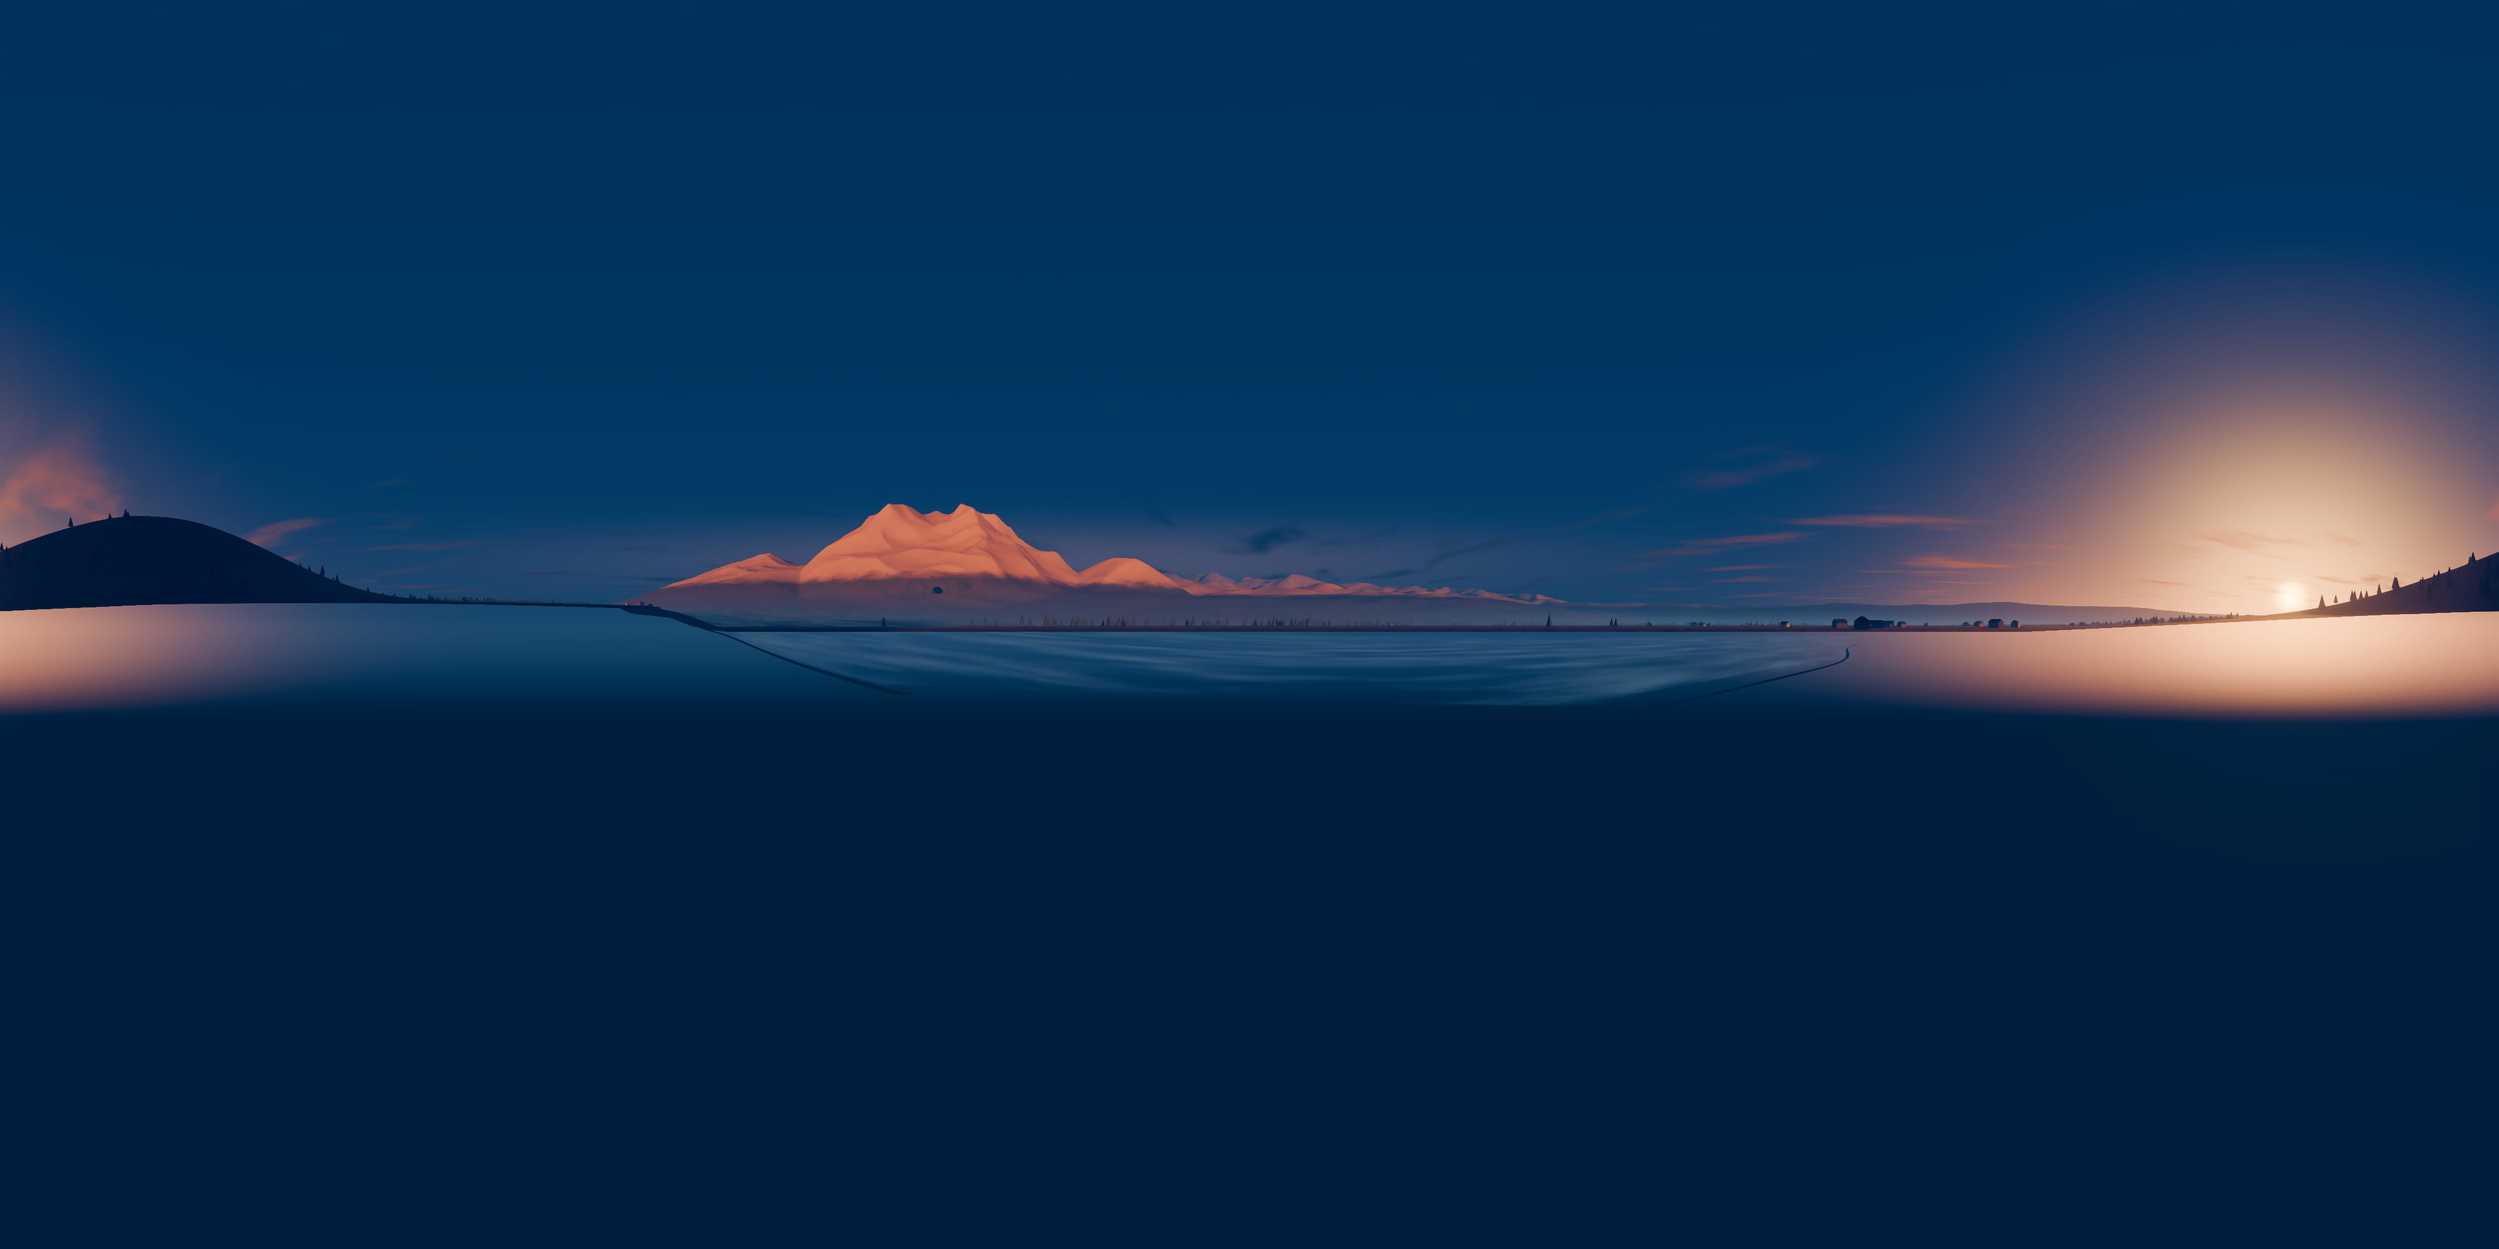
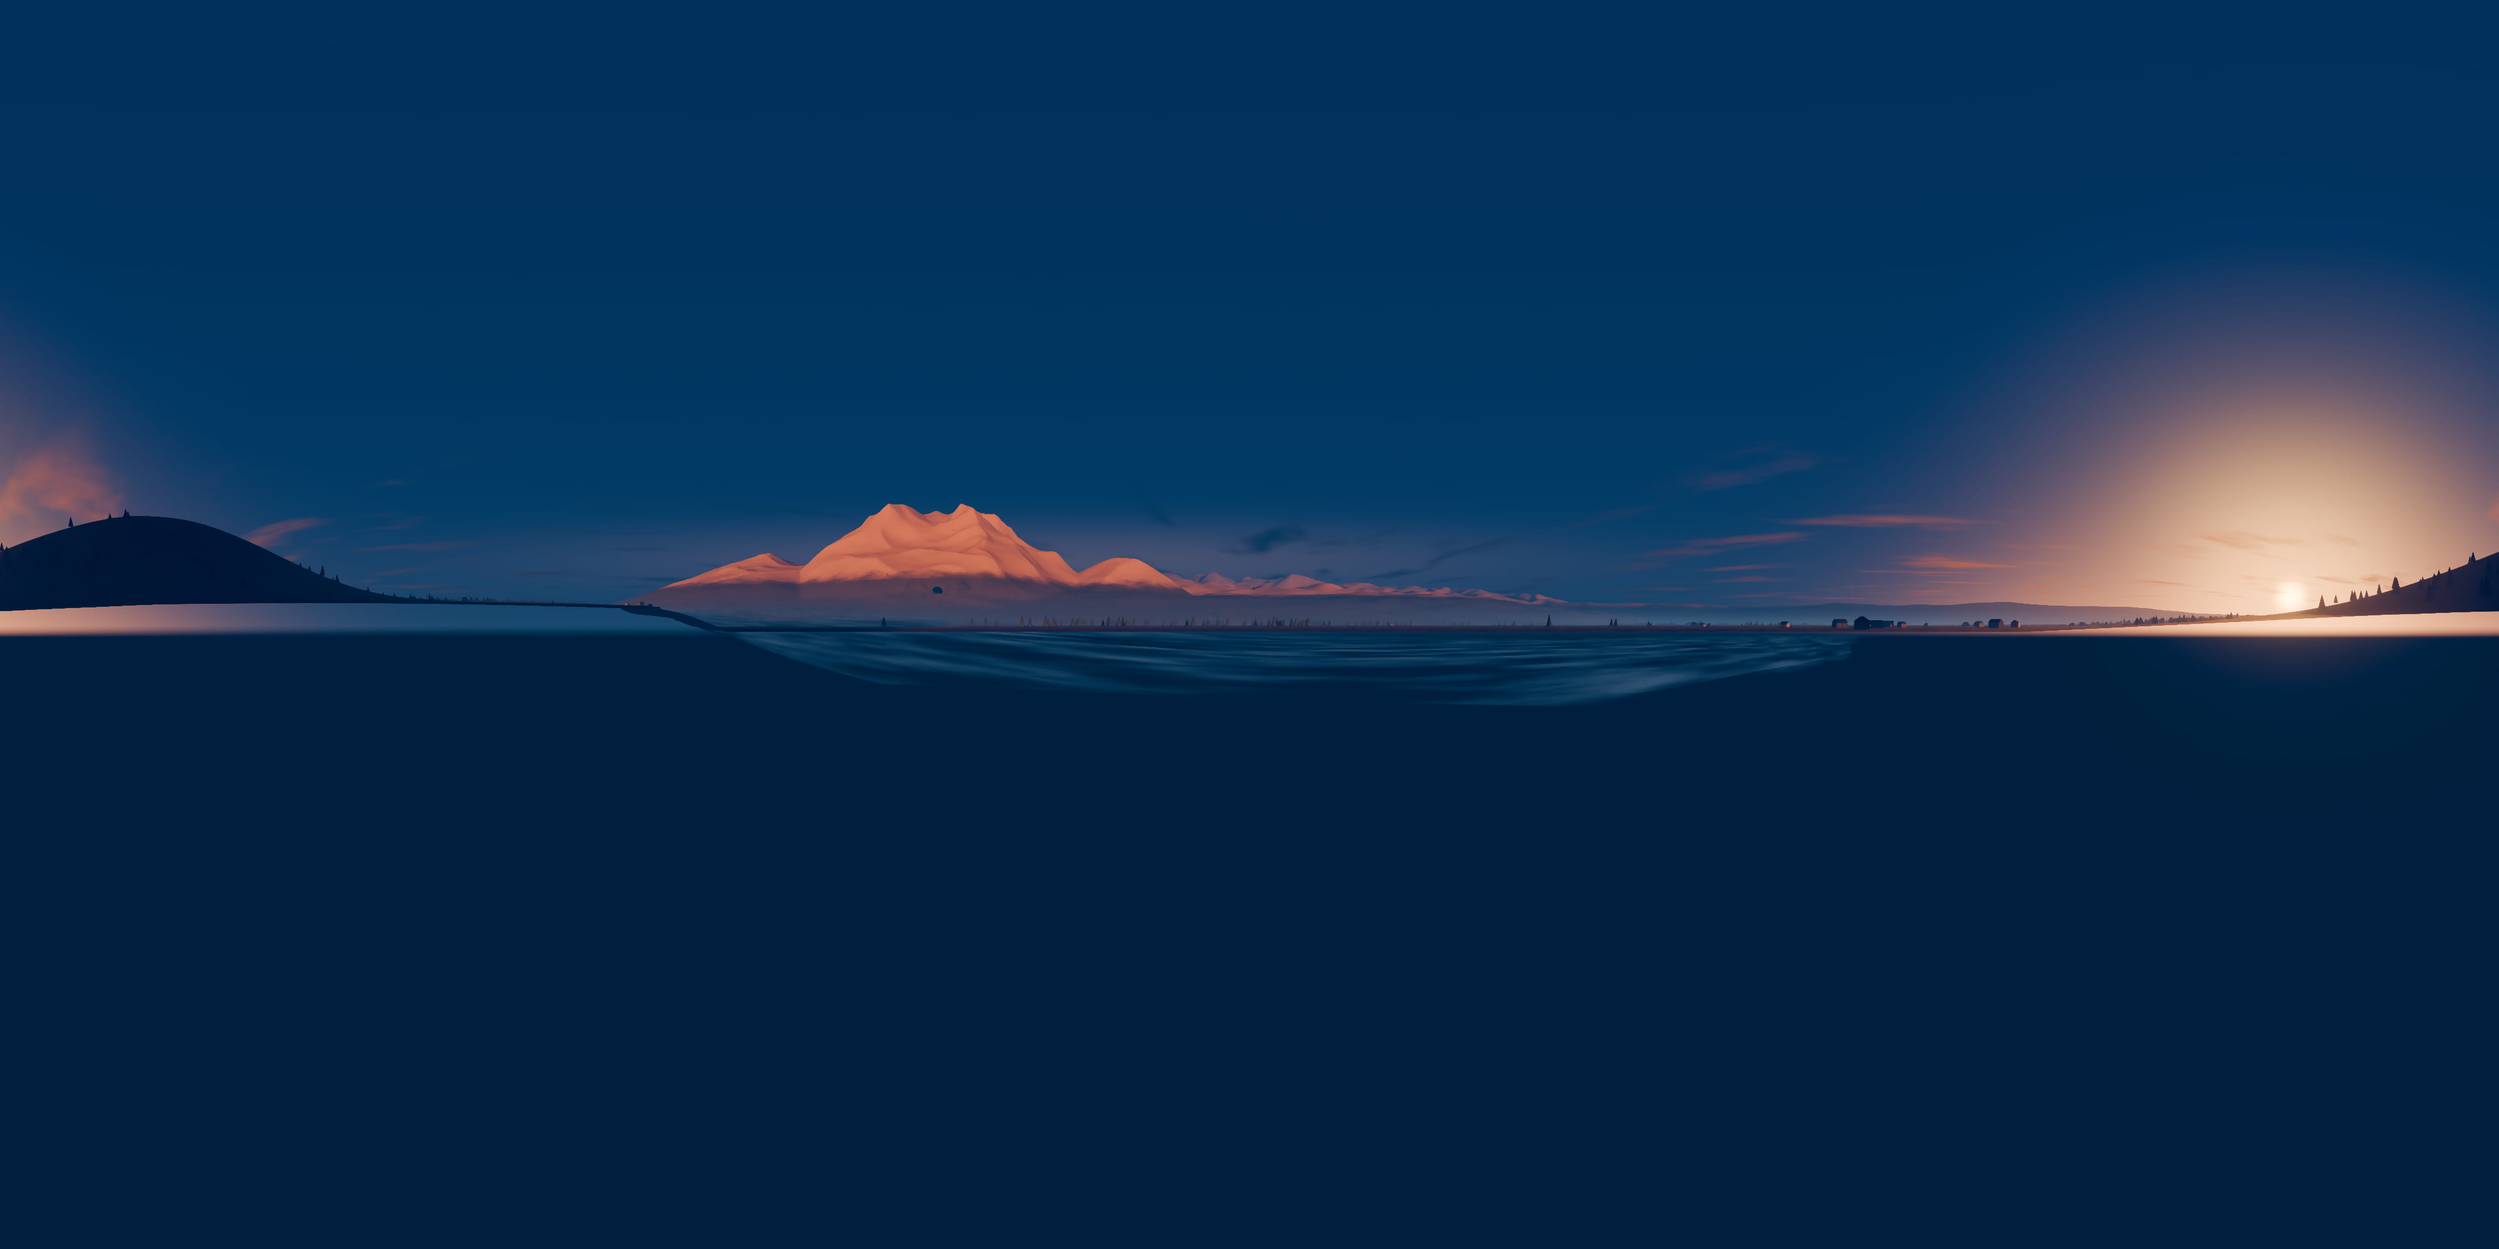
Handoff at 90% usage: Blender art, UE5 prep, Khaled, log

Changed region(s): [[0.0, 0.5, 1.0, 0.5938]]

diff --git a/tests/village.test.ts b/tests/village.test.ts
@@ -2,7 +2,7 @@ import { describe, it, expect } from 'vitest';
 import { newPlayer, step, eyeHeight, height, overlaps, TUNING, type Input, type PlayerState, type Box } from '../src/physics';
 import {
   villageSolids, EXAMINABLES, LINES, SPAWN, SPAWN_YAW, END_ZONE, TURNBACK_ZONE, MOUNTAIN, trailPoints, bearingDir,
-  pickExaminable, surfaceAt, zoneEvents, newVillageState, markExamined, rng, SUN,
+  pickExaminable, surfaceAt, zoneEvents, newVillageState, markExamined, rng, SUN, groundY,
 } from '../src/village';
 /** Main route on foot: farm track, back door, aisle, north door, then the hoofprints across the pasture to the gap. */
 const ROUTE = [[0, 12], [0, -9], [0, -13], [1.5, -15], [25, -38.6], [25.2, -40.5]];
@@ -51,7 +51,7 @@ describe('Village slice data', () => {
   it('every examinable can be examined from its standing spot (in range, facing it, line of sight)', () => {
     for (const [i, e] of EXAMINABLES.entries()) {
       const p = newPlayer(e.from);
-      for (let k = 0; k < 30; k++) step(p, idle, WORLD, DT);
+      for (let k = 0; k < 30; k++) step(p, idle, WORLD, DT, groundY);
       expect(p.onGround, e.id).toBe(true);
       expect(Math.hypot(p.pos.x - e.from.x, p.pos.z - e.from.z), `${e.id} spot is free`).toBeLessThan(0.01);
       const eye = { x: p.pos.x, y: p.pos.y + eyeHeight(p), z: p.pos.z };
@@ -69,7 +69,7 @@ describe('Village slice data', () => {
     expect(pickExaminable(eye, { x: d.x / n, y: d.y / n, z: d.z / n }, EXAMINABLES, SOLIDS, 10)).toBe(-1);
   });
 
-  it('spawn, every examine spot and the end zone are connected on foot (grid flood fill, player-sized)', () => {
+  it('spawn, every examine spot and the end zone are connected on foot in the barn corner (grid flood fill, player-sized)', () => {
     const h = 0.25, x0 = -28, z0 = -44, nx = Math.round(58 / h), nz = Math.round(72 / h);
     const cell = (x: number, z: number) => [Math.round((x - x0) / h), Math.round((z - z0) / h)] as const;
     const seen = new Uint8Array(nx * nz);
@@ -89,11 +89,7 @@ describe('Village slice data', () => {
     const reach = (x: number, z: number) => { const [a, b] = cell(x, z); return seen[a + b * nx] === 1; };
     for (const e of EXAMINABLES) expect(reach(e.from.x, e.from.z), e.id).toBe(true);
     expect(reach((END_ZONE.box.min.x + END_ZONE.box.max.x) / 2, END_ZONE.box.max.z - 0.5)).toBe(true);
-    // The play space is closed: nothing outside the fences/walls is reachable.
-    expect(reach(-27.9 - 0.3, 0)).toBe(false);
-    expect(reach(10, -46)).toBe(false);
-    expect(reach(25, -46)).toBe(false);
-    expect(reach(0, 28.5)).toBe(false);
+    // Closure of the full village (map edges, the stream) is checked in tests/villageWalk.test.ts.
   });
 
   it('hoofprint trail is continuous, starts in the barn, never crosses a solid, reaches the end zone, always heads toward the mountain', () => {
@@ -126,7 +122,7 @@ describe('Village slice data', () => {
       const [tx, tz] = route[wp];
       if (Math.hypot(tx - p.pos.x, tz - p.pos.z) < 0.4 && wp < route.length - 1) wp++;
       yaw = Math.atan2(-(route[wp][0] - p.pos.x), -(route[wp][1] - p.pos.z));
-      step(p, { ...idle, forward: 1, yaw }, WORLD, DT);
+      step(p, { ...idle, forward: 1, yaw }, WORLD, DT, groundY);
       if (zoneEvents(s, pbox(p)).includes('end')) ended = true;
     }
     expect(ended, `stuck at (${p.pos.x.toFixed(2)}, ${p.pos.z.toFixed(2)}) heading to waypoint ${wp}`).toBe(true);
@@ -157,16 +153,16 @@ describe('Village slice data', () => {
     expect(SUN.elevation).toBeLessThanOrEqual(6);
   });
 
-  it('walking back to the village fires turnback and an invisible stop holds the player', () => {
-    const p = newPlayer({ x: 0, y: 0.01, z: 23.5 });
+  it('walking down the valley road fires turnback and an invisible stop holds the player at the map edge', () => {
+    const p = newPlayer({ x: 37.5, y: groundY(37.5, 96) + 0.01, z: 96 });
     const s = newVillageState();
     let turned = 0;
-    for (let i = 0; i < 120 * 6; i++) {
-      step(p, { ...idle, forward: 1, yaw: Math.PI }, WORLD, DT);
+    for (let i = 0; i < 120 * 8; i++) {
+      step(p, { ...idle, forward: 1, yaw: Math.PI }, WORLD, DT, groundY);
       if (zoneEvents(s, pbox(p)).includes('turnback')) turned++;
     }
     expect(turned).toBeGreaterThan(0);
-    expect(p.pos.z).toBeLessThan(TURNBACK_ZONE.box.max.z + 0.5);
+    expect(p.pos.z).toBeLessThan(TURNBACK_ZONE.box.max.z + 0.7);
     expect(s.finished).toBe(false);
   });
 

diff --git a/src/villageScene.ts b/src/villageScene.ts
@@ -1273,7 +1273,6 @@ export function buildVillage(scene: THREE.Scene, renderer: THREE.WebGLRenderer):
   for (const k of Object.keys(buckets) as BucketId[]) buckets[k].length = 0;
   exGeos.clear();
   FENCES_NOW = fencesNow();
-  const pm = new THREE.PMREMGenerator(renderer);   // created first: its shader links while the CPU builds geometry
   R = rng(5);
   const maxAniso = Math.min(8, renderer.capabilities.getMaxAnisotropy());
   const phase: Record<string, number> = {};
@@ -1349,12 +1348,13 @@ export function buildVillage(scene: THREE.Scene, renderer: THREE.WebGLRenderer):
   disc.renderOrder = 1;
   sky.add(disc);
   mark('materials');
+  const pm = new THREE.PMREMGenerator(renderer);
   const envScene = new THREE.Scene();
   envScene.add(new THREE.Mesh(skyGeo, skyMat));
   const env = pm.fromScene(envScene, 0.04, 1, 2000).texture;
   for (const [m, k] of [[lit, 2.4], [stone, 2.4], [foliage, 2.0], [chalk, 2.0], [wet, 1.0], [prints, 0.3]] as const) { m.envMap = env; m.envMapIntensity = k; }
   const wm = waterMat as THREE.MeshStandardMaterial | null;
-  if (wm) { wm.envMap = env; wm.envMapIntensity = 1.3; }
+  if (wm) { wm.envMap = env; wm.envMapIntensity = 2.6; }
   pm.dispose();
   mark('envmap');
   const stats: Record<string, number> = { ...phase };
@@ -1412,7 +1412,8 @@ export function buildVillage(scene: THREE.Scene, renderer: THREE.WebGLRenderer):
   // Mountains: near valley sides, then the mountain itself (NNE) with the cave mouth, and the ridge mast to the west.
   // Near valley sides stay below 3 deg in the WSW so the sun clears them; the west ridge carries the mast.
   // The west ridge peaks due west (the mast, village.md: 450 m W, 110 m up) and dips in the WSW where the sun sets.
-  const nearH = (b: number) => 4 + 5 * ringNoise(b, 3, 3.1) + 2 * ringNoise(b, 17, 7.7) + 52 * Math.exp(-((angDiff(b, 276) / 15) ** 2))
+  const nearH = (b: number) => 4 + 5 * ringNoise(b, 3, 3.1) + 2 * ringNoise(b, 17, 7.7) + 50 * Math.exp(-((angDiff(b, 276) / 14) ** 2))
+    + 18 * Math.exp(-((angDiff(b, 293) / 13) ** 2)) + 9 * (ringNoise(b, 64, 5.5) - 0.5) * Math.exp(-((angDiff(b, 280) / 22) ** 2))
     + 20 * Math.exp(-((angDiff(b, 130) / 34) ** 2)) + 12 * Math.exp(-((angDiff(b, 190) / 20) ** 2))
     + 8 * Math.exp(-((angDiff(b, 20) / 14) ** 2)) + 6 * Math.exp(-((angDiff(b, 70) / 10) ** 2));
   const near = ridgeRing(230, nearH, { shade: mix('fogHaze', 'ink', 0.5, 1.0), lit: mix('wallPaint', 'sodium', 0.4, 0.5), snow: P('ink'), snowLine: 999, haze: 0.25, litK: 0.8 });

diff --git a/src/villageMap.ts b/src/villageMap.ts
@@ -56,7 +56,9 @@ export const TERRACE = { x0: -41.5, step: 7.5, rise: 0.42, ramp: 0.9 };
 export const streamX = (z: number) => 104.5 + 1.1 * Math.sin((z + 20) / 17) + 0.5 * Math.sin((z + 20) / 7.3 + 1);
 export const streamHalf = (z: number) => 2.5 + 0.5 * Math.sin((z - 12.5) / 13);
 export const waterY = (z: number) => -8.3 - 0.008 * (z - 12.5);
-export const BANK = { west: 5.5, east: 5.0, eastRise: 2.3, eastK: 0.08 };   // both banks stay under 35 deg
+/** The west bank (5.5 m) and the east bank (6.5 m) stay under 35 deg; past it the east bank climbs out of the
+ *  village's evening shadow into the last sun, toward the mountain, and levels off at the valley floor (-2.5 m). */
+export const BANK = { west: 5.5, east: 6.5, eastRise: 3.0, eastK: 0.15, floor: -2.5 };
 /** Maryam's yard [7] is levelled: a 1.2 m retaining wall on the stream side, 6 stone steps at the back gate. */
 export const MARYAM_YARD: Rect & { y: number } = { x0: 67.5, x1: 92.5, z0: 2.5, z1: 22.5, y: -3.9 };
 const smooth01 = (t: number) => (t <= 0 ? 0 : t >= 1 ? 1 : t * t * (3 - 2 * t));
@@ -95,7 +97,7 @@ export function groundY(x: number, z: number): number {
     } else if (d < hw + BANK.east) {
       y = w + 0.06 + BANK.eastRise * smooth01((d - hw) / BANK.east);
     } else {
-      y = w + 0.06 + BANK.eastRise + BANK.eastK * (d - hw - BANK.east);
+      y = Math.min(BANK.floor, w + 0.06 + BANK.eastRise + BANK.eastK * (d - hw - BANK.east));
     }
   }
   return y;
@@ -262,7 +264,7 @@ export const PATHS: Path[] = [
 /** 7 stepping stones across 5 m of water at row 6, centres 0.6 m apart. */
 export const STONES = (() => {
   const z = 12.5, c = streamX(z), w = waterY(z);
-  return Array.from({ length: 7 }, (_, i) => ({ x: c - 1.8 + i * 0.6, z: z + [0.04, -0.06, 0.05, -0.03, 0.06, -0.05, 0.02][i], top: w + [0.12, 0.16, 0.1, 0.15, 0.11, 0.14, 0.12][i], sx: 0.46, sz: 0.62 }));
+  return Array.from({ length: 7 }, (_, i) => ({ x: c - 1.8 + i * 0.6, z: z + [0.04, -0.06, 0.05, -0.03, 0.06, -0.05, 0.02][i], top: w + [0.2, 0.25, 0.18, 0.24, 0.2, 0.26, 0.21][i], sx: 0.5, sz: 0.8 }));
 })();
 /** The 6 stone steps down the retaining wall at the back gate, east toward the stream. */
 export const BACK_STEPS = Array.from({ length: 6 }, (_, i) => ({ x0: 92.75 + i * 0.42, x1: 92.75 + (i + 1) * 0.42, z0: 6.4, z1: 8.6, top: MARYAM_YARD.y - (i + 1) * 0.2 }));

diff --git a/src/villageTown.ts b/src/villageTown.ts
@@ -622,7 +622,7 @@ export function buildTown(k: Kit, scene: THREE.Scene, leafMat: THREE.Material): 
     g.setAttribute('position', new THREE.Float32BufferAttribute(pos, 3));
     g.setIndex(idx);
     g.computeVertexNormals();
-    const water = new THREE.MeshStandardMaterial({ color: mix('fogHaze', 'ink', 0.55, 1.0), roughness: 0.12, metalness: 0, envMapIntensity: 1.0 });
+    const water = new THREE.MeshStandardMaterial({ color: mix('fogHaze', 'skyNight', 0.45, 1.25), roughness: 0.1, metalness: 0, envMapIntensity: 1.0 });
     water.onBeforeCompile = s => {
       s.uniforms.uTime = waterTime;
       s.vertexShader = s.vertexShader.replace('#include <common>', '#include <common>\nvarying vec3 vWP;').replace('#include <begin_vertex>', '#include <begin_vertex>\nvWP = (modelMatrix * vec4(transformed, 1.0)).xyz;');
@@ -654,9 +654,11 @@ export function buildTown(k: Kit, scene: THREE.Scene, leafMat: THREE.Material): 
     const p = ico.getAttribute('position');
     for (let i = 0; i < p.count; i++) { const y = p.getY(i); p.setY(i, y > 0.3 ? 0.3 + (y - 0.3) * 0.25 : y); }
     ico.computeVertexNormals();
-    ico.scale(st.sx * 0.55, 0.62, st.sz * 0.55); ico.rotateY(R() * 3);
+    ico.scale(st.sx * 0.55, 0.62, st.sz * 0.55); ico.rotateY(rr(-0.3, 0.3));
     ico.translate(st.x, st.top - 0.62 * (0.3 + 0.7 * 0.25) + 0.005, st.z);
-    put('stone', ico, cS(COL.stone, rr(0.75, 0.9)));
+    put('stone', ico, cS(COL.stone, rr(1.0, 1.15)));
+    // A pale ring of broken water round each stone, the current piling against its upstream side.
+    put('glow', k.ellipseG(st.x, waterY(st.z) + 0.012, st.z - 0.06, st.sz * 0.62, st.sx * 0.66, Math.PI / 2, 12), mix('concrete', 'fogHaze', 0.4, 0.42));
   }
   // Hoofprints over the east bank: the herd crossed here too, all heading for the mountain.
   {

diff --git a/studio/reports/aktham-blender.md b/studio/reports/aktham-blender.md
@@ -1,0 +1,8 @@
+# Aktham: Blender backdrop and village textures (2026-10-18)
+1. **valley-dusk**: `scripts/blender/valley_dusk.py` (Cycles CPU, 32 spp, OIDN, Bloom, Kuwahara, grade). Key art `public/art/valley-dusk-key.jpg` is 1920x1080, 87,996 B, render 280 s. Sky `public/art/valley-sky.jpg` is a 4096x2048 equirect, 129,106 B, render 228–599 s. Horizon at v=0.5 (camera pitch 0). Mapping: u = ((bearing−270) mod 360)/360, which is three.js `EquirectangularReflectionMapping`. Measured: sun at 240°/4.3°; cave arch 16 px = 1.41° wide at 45.09°, sill 4.48° (game 1.47°/5.6°); peak 16.5°; WSW skyline 1.8°.
+2. **Textures** (`scripts/blender/village_textures.py`, 1024², 300 s bake): dirt-road, grass-dry, wood-planks-barn, roof-tiles-red, stone-wall, hay, fence-wood as `.jpg`. Normals ship for dirt-road, wood-planks-barn, roof-tiles-red and stone-wall (`<name>_normal.jpg`, OpenGL). Roughness ships for dirt-road only (`dirt-road_rough.jpg`).
+3. **Seams**: every wrap pair ranks below the 91st percentile against interior pairs in the PNG bake (`art-src/tex/seams.json`). The 2×2 checks are `art-src/tex/<name>-tile2x2.png`. On the JPEGs the wrap pair ranks 0–94% against local block edges; panorama wrap |Δ| is 0.86 levels/channel after a cross-faded 64 px overscan.
+4. **Palette**: worst albedo is hay at ΔE 21.0 (limit 25); stone-wall is best at 7.2. Each albedo average equals a villageScene COL colour; the hex values are in `studio/art/prompts/village-textures.md`.
+5. **Bytes**: public/art totals 2,495,861 B over 16 files. Projected dist is 3,232,302 B against a 5,242,880 B budget. `node scripts/blender/encode-art.mjs` exits 0. `scripts/check-art.mjs` exits 2 because pngjs is not installed.
+6. **Rajaie**: `withTexture` loads only `art/<name>.png`, so it needs a `.jpg` path plus `_normal` and `_rough` slots. TEX_BASE keys and their sRGB bases are listed in `village-textures.md`. Canon says slate roofs, so roof-tiles-red is only for red barn trim.
+7. **Known weak spots**: in the key art the herd and Joseph are present but too small and dark to read at 1920, and the roots are only faint.

diff --git a/studio/handoff-log.md b/studio/handoff-log.md
@@ -1,5 +1,17 @@
 # Handoff log (newest first)
 
+## 2026-10-18 (late) — Cyrex, handoff at 90% usage
+**Done since last entry:** Aktham Blender art (valley-dusk key + 360° sky, 7 village textures, `studio/reports/aktham-blender.md`). Tariq UE5 trial prepared in `unreal/` (UE5 PAUSED by Cyrex decision, see `studio/decisions.md`). New agents: Khaled (sound/video; ElevenLabs capped at 6,000 credits, ledger `studio/audio/elevenlabs-ledger.md`), Tariq (UE5). Git repo initialized (branch main, 1+ commits); NOT pushed yet.
+**In progress:** Rajaie full village blockout (`src/village*.ts`). At handoff 3 tests in `tests/village.test.ts` were failing (mid-edit; e.g. "stuck at (1.37,-8.80)"). Check `studio/reports/rajaie-village-full.md`; if missing, run `npm run check` and fix first.
+**Next (in order):**
+1. Make `npm run check` green; run `npx playwright test tests/e2e/village-walkthrough.spec.ts` 3×.
+2. Wire Aktham's .jpg textures + `_normal`/`_rough` in `src/materials.ts` (see aktham-blender.md §6); use `valley-sky.jpg` as equirect backdrop.
+3. GoldSrc-style gameplay plan (decisions.md): entity system, scripted sequences, physical feedback, Blender-baked lighting.
+4. Build step 2: village NPCs + dialogue + Lorenzo's camera verb.
+5. Push to GitHub: create repo `TheValley` (owner's account), `git remote add origin <url>; git push -u origin main`.
+**Owner open questions:** Sal's father path into the mountain; when Sal arrives; light vs electricity vs roots.
+
+
 ## 2026-10-18 — Cyrex (Claude Code, owner's machine)
 **Done**
 - Engine: movement, combat, save and load, facility logic (M0–M2). The Night Shift test level still runs via `?level=nightshift`.
